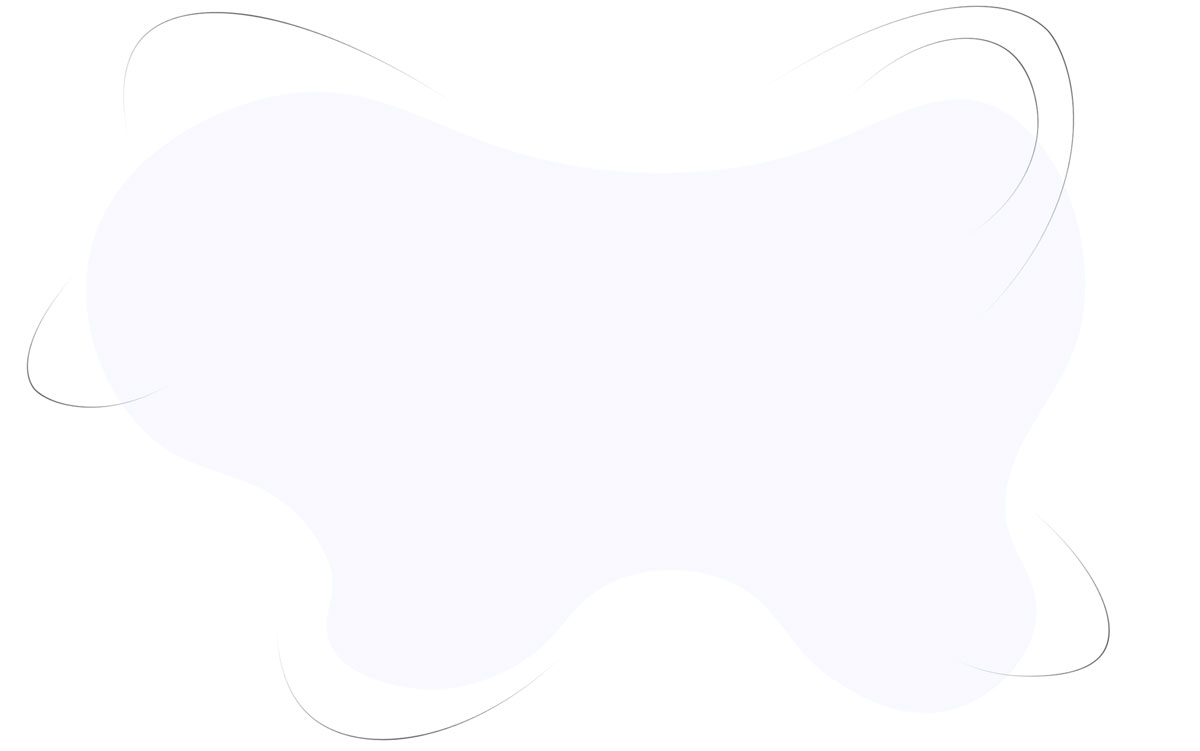
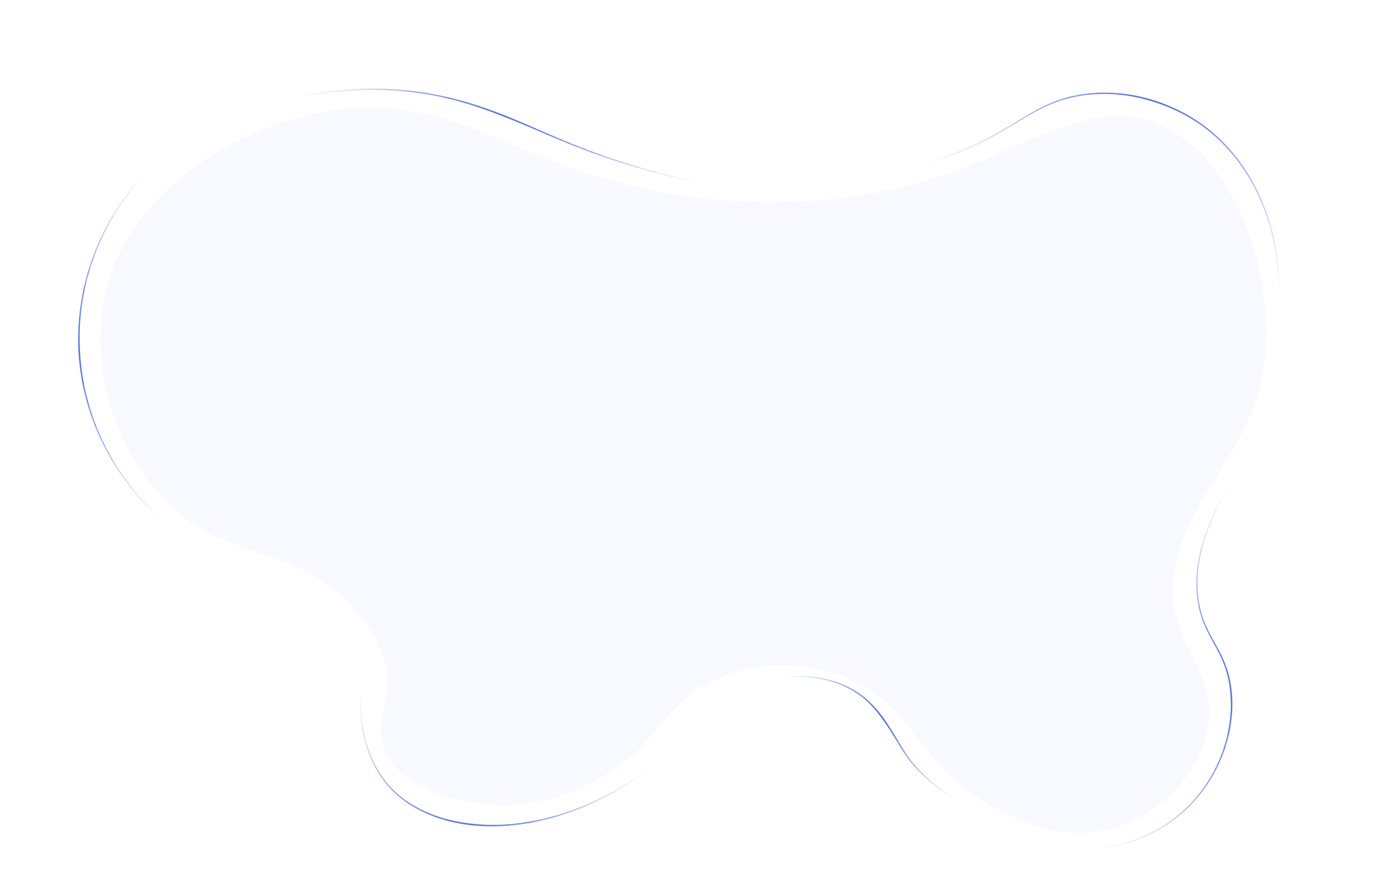
Замена картинки pay

diff --git a/app/views/layouts/default.php b/app/views/layouts/default.php
@@ -7,7 +7,7 @@
 
     <!-- Bootstrap CSS -->
     <link rel="stylesheet" href="https://stackpath.bootstrapcdn.com/bootstrap/4.3.1/css/bootstrap.min.css">
-    <link rel="stylesheet" href="/public/css/custom.css?ver=5">
+    <link rel="stylesheet" href="/public/css/custom.css?ver=6">
     <link rel="stylesheet" href="https://use.fontawesome.com/releases/v5.6.3/css/all.css">
     <script src="https://ajax.googleapis.com/ajax/libs/jquery/3.3.1/jquery.min.js"></script>
     <title><?php echo $title; ?></title>
